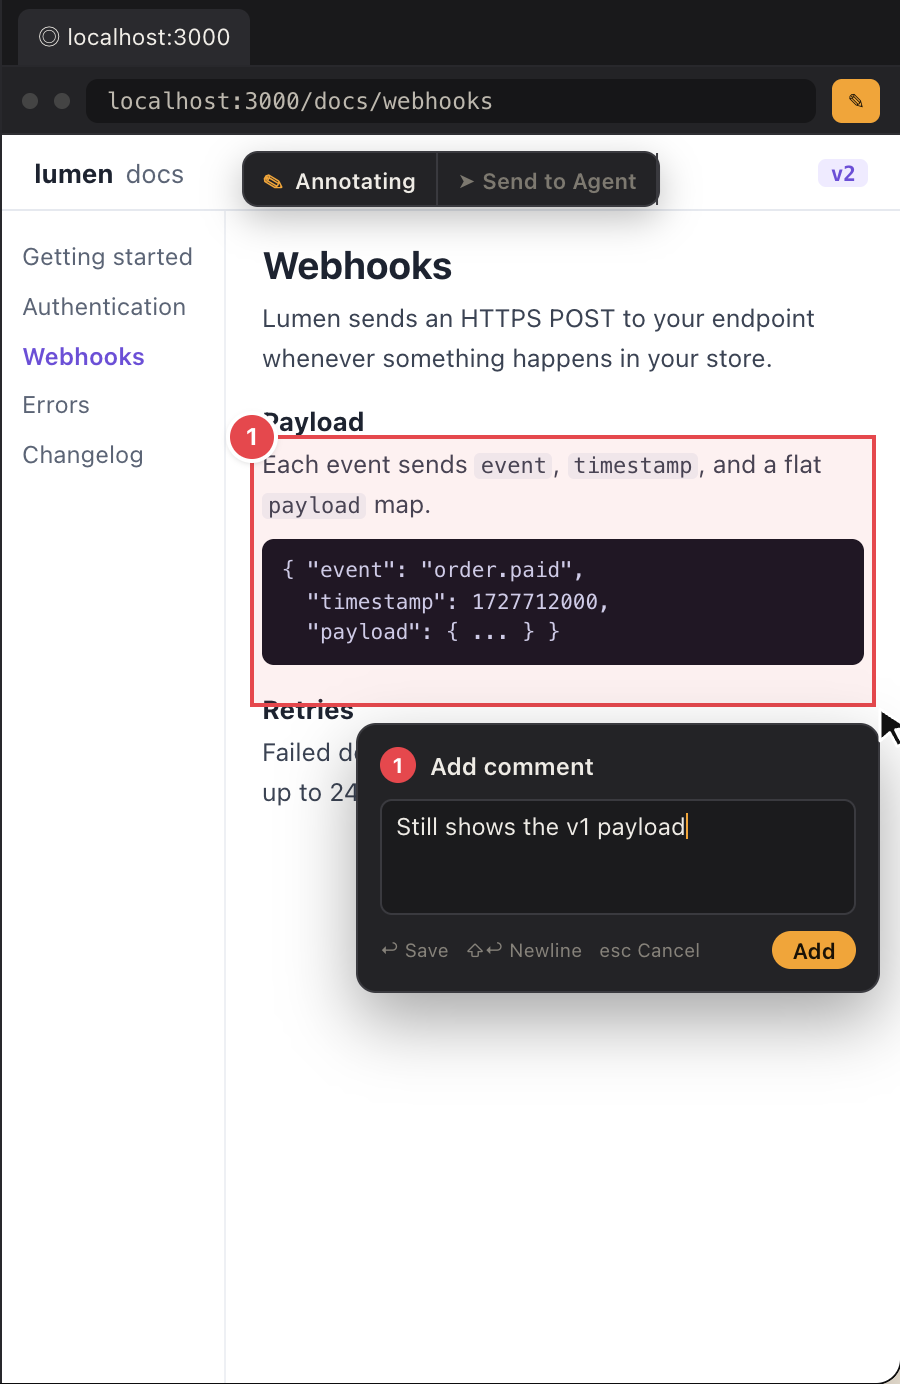
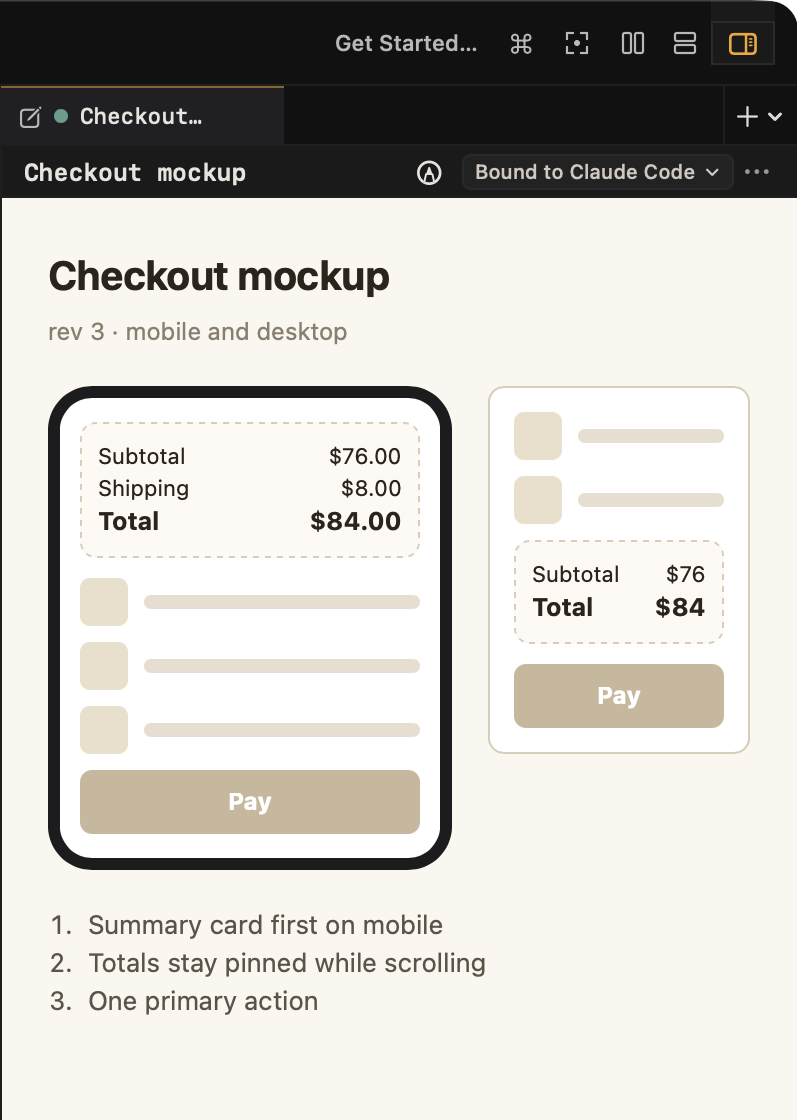
Use real app screenshots in the README and social card
The README's sidebar, right-panel, and new full-window images and the social
card's sidebar close-up now come from the demo capture instead of the HTML
recreation. The README hero and workflow images stay frames of the animated
tour they link to.

Claude-Session: https://claude.ai/code/session_01HbRaoqY3cXzMeNzodwC4wm

diff --git a/README.md b/README.md
@@ -59,7 +59,7 @@ A workflow is a skill in `~/.toastty/skills` that tells your agent which of Toas
 
 ### Sidebar and agents
 
-<img src="docs/assets/readme/sidebar.png" alt="Toastty sidebar with working, ready, approval, and error rows, a Subspaces group with PR chips, and a flagged session" width="300" align="right">
+<img src="docs/assets/readme/sidebar.png" alt="Toastty sidebar: a lumen workspace with idle and working sessions and a Subspaces group holding a ready checkout-redesign row with a PR #128 chip, a working subspace, and a done one; below, a docs-site session with an unread reply and an infra session waiting for approval" width="300" align="right">
 
 - **Live status** for Claude Code, Codex, Cursor, OpenCode, MiMo Code, and Pi. Type `claude`, `codex`, `cursor-agent`, `opencode`, `mimo`, or `pi` as usual, or launch from the `Agent` menu, top bar, or command palette. Any other CLI runs in a normal pane.
 - **Rows that need you are tinted:** green when ready, amber when waiting for approval, red on an error.
@@ -75,7 +75,7 @@ See [Running Agents](docs/running-agents.md) for agent profiles, instrumentation
 
 ### Right panel
 
-<img src="docs/assets/readme/right-panel.png" alt="A docs preview in the right panel's browser with a numbered annotation box and an Add comment dialog" width="300" align="right">
+<img src="docs/assets/readme/right-panel.png" alt="A Checkout mockup Scratchpad in the right panel, bound to a Claude Code session" width="300" align="right">
 
 - **Scratchpad:** agents publish HTML pages for plans, mockups, diagrams, and reports, each linked to the session that made it.
 - **Local files:** Markdown, code, configs, logs, and CSV open in an editable view with line numbers.
@@ -88,6 +88,10 @@ See [Right Panel](docs/right-panel.md) for shortcuts, Recently Opened, and link 
 <br clear="right">
 
 ### Workspaces, tabs, and splits
+
+<p align="center">
+  <img src="docs/assets/readme/window.png" alt="Toastty with a Claude Code session split above a second Claude Code session fixing a test, the sidebar beside them, and a Scratchpad mockup in the right panel" width="900">
+</p>
 
 - Named workspaces in the sidebar; switch with `Option+1`–`Option+9`. `Cmd+N` opens another window.
 - Tabs per workspace (`Cmd+T`) and splits (`Cmd+D`, `Cmd+Shift+D`). `Cmd+Shift+F` zooms the focused panel.
